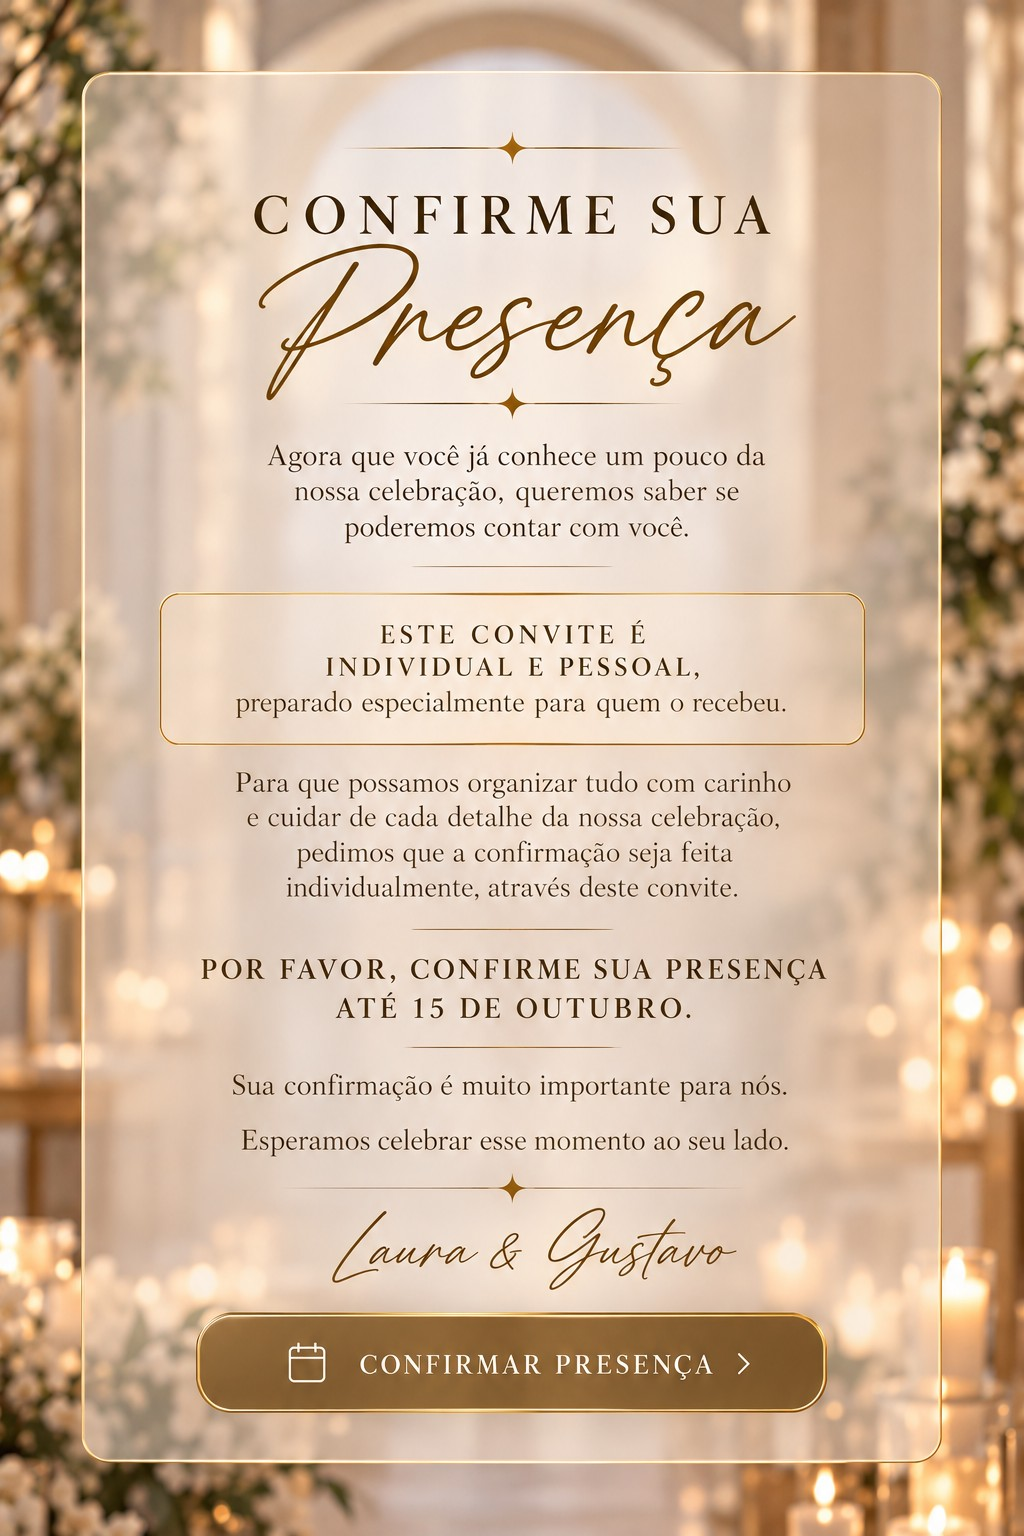
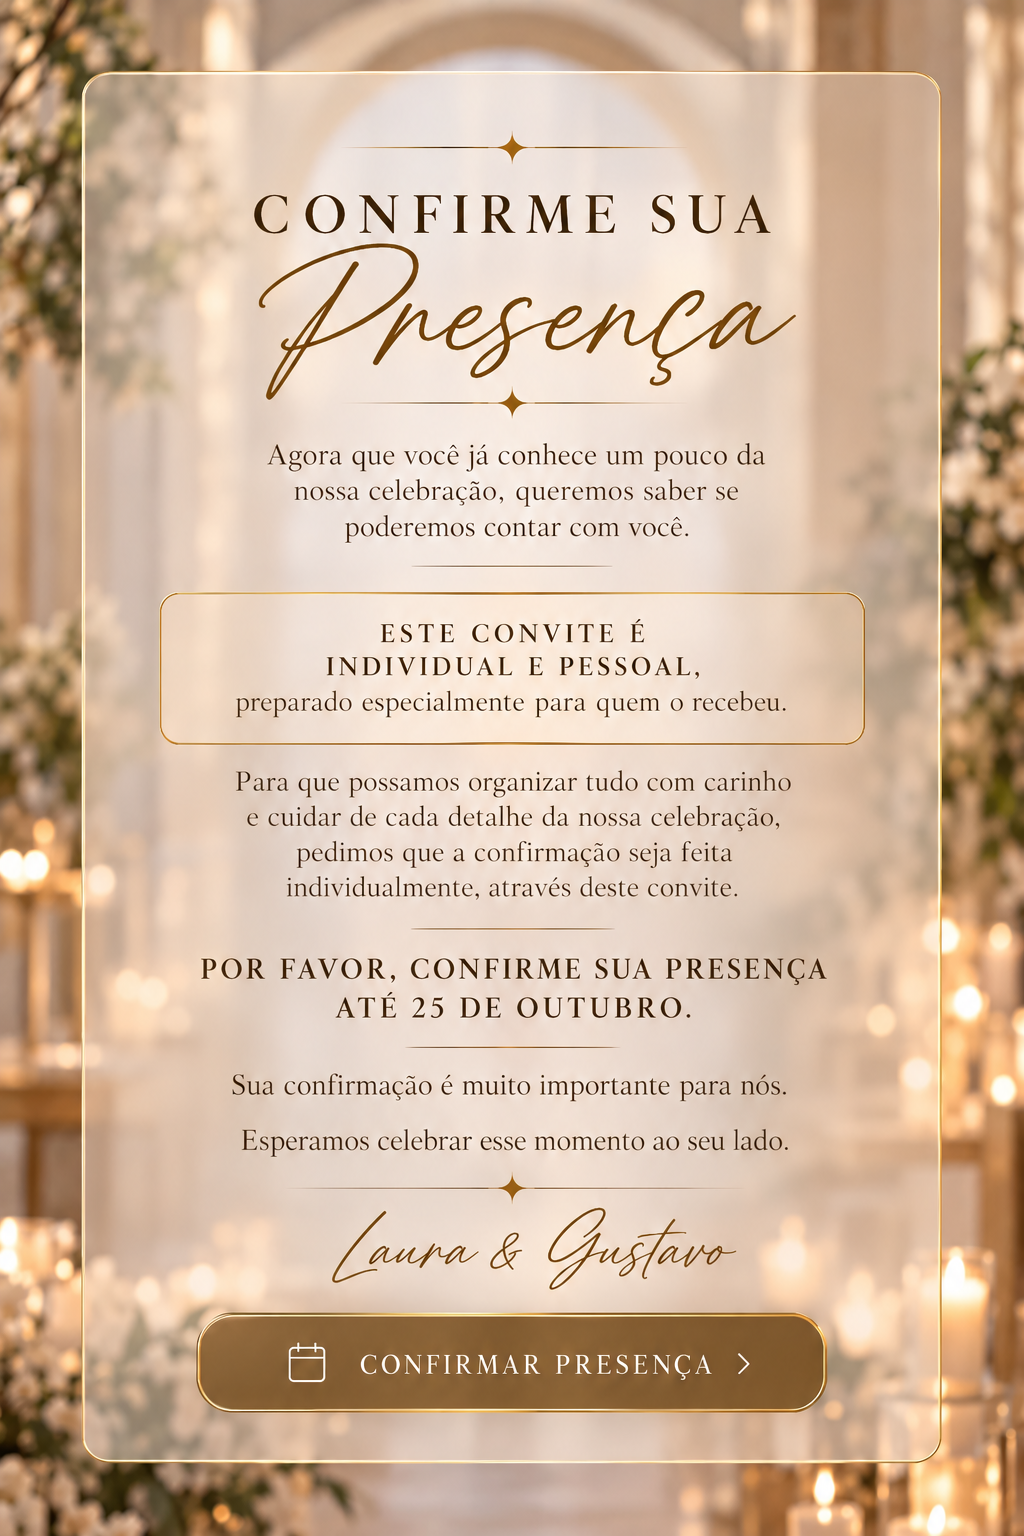
Move the first slot ceremony to 18:00 with the v6 art
The couple delayed the ceremony by one hour. The new HTML (pix-6, horario v6)
only changes the countdown art (18:00), the confirmation art (deadline now
25 October) and the countdown target.

diff --git a/src/app/convite-replica/versoes.ts b/src/app/convite-replica/versoes.ts
@@ -57,7 +57,7 @@ export const VERSAO_PRIMEIRO_HORARIO: Versao = {
       classe: "rc-abertura",
       luzes: { luzes: LUZES_ABERTURA, classe: "rc-luz-abertura" },
     },
-    { imagem: pagina(2, "/convite/02-contagem.jpg"), contagem: true },
+    { imagem: pagina(2, "/convite/02-contagem.png"), contagem: true },
     { imagem: pagina(3, "/convite/03-como-chegar.png"), areas: AREAS_MAPA },
     {
       imagem: pagina(4, "/convite/04-dress-code.png"),
@@ -85,7 +85,7 @@ export const VERSAO_PRIMEIRO_HORARIO: Versao = {
   },
   whatsappComprovante: WHATSAPP_COMPROVANTE,
   presentes: PRESENTES,
-  alvoContagem: "2026-11-28T17:00:00-03:00",
+  alvoContagem: "2026-11-28T18:00:00-03:00",
 };
 
 /** PROVISÓRIA: enquanto a arte do segundo horário não chega, a lista
